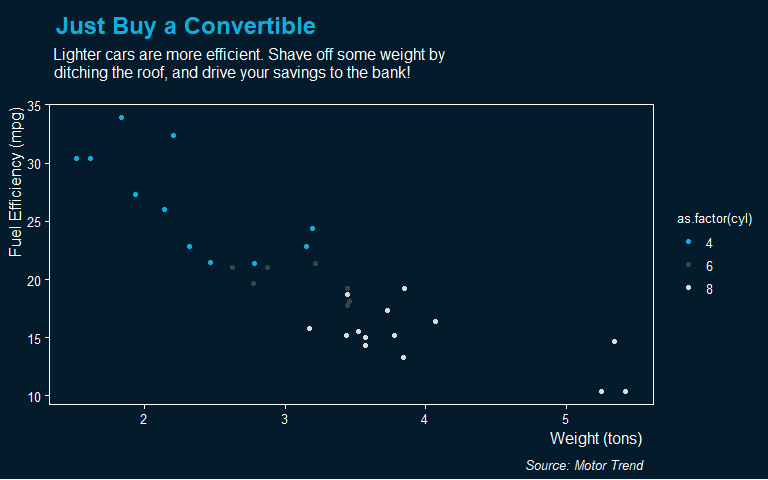
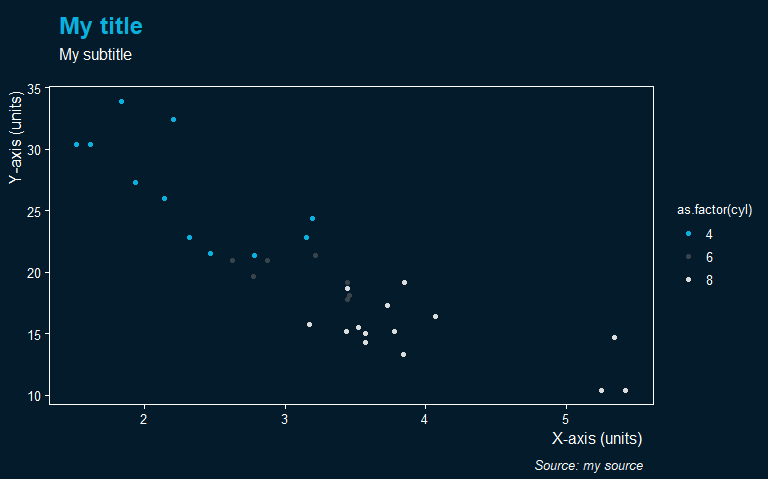
Add example

diff --git a/vignettes/intro-2-ggbluebadge.md b/vignettes/intro-2-ggbluebadge.md
@@ -1,68 +1,96 @@
 <!-- README.md is generated from README.Rmd. Please edit that file -->
-    library(ggplot2)
-    library(magick)
-    #> Linking to ImageMagick 6.9.9.14
-    #> Enabled features: cairo, freetype, fftw, ghostscript, lcms, pango, rsvg, webp
-    #> Disabled features: fontconfig, x11
-    library(grid)
-    library(ggbluebadge)
+``` r
+library(ggplot2)
+library(magick)
+#> Linking to ImageMagick 6.9.9.14
+#> Enabled features: cairo, freetype, fftw, ghostscript, lcms, pango, rsvg, webp
+#> Disabled features: fontconfig, x11
+library(grid)
+library(ggbluebadge)
 
-    ggplot(mtcars, aes(wt, mpg, color = as.factor(cyl) )) +
-        geom_point() +
-        scale_color_csiro(palette="main") +
-        labs(
-            x = "Weight (tons)",
-            y = "Fuel Efficiency (mpg)",
-            title = "Just Buy a Convertible",
-            subtitle = "Lighter cars are more efficient. Shave off some weight by\nditching the roof, and drive your savings to the bank!",
-            caption = "Source: Motor Trend"
-        ) +
-        theme_csiro_dark()
+ggplot(mtcars, aes(wt, mpg, color = as.factor(cyl) )) +
+    geom_point() +
+    scale_color_csiro(palette="main") +
+    labs(
+        x = "X-axis (units)",
+        y = "Y-axis (units)",
+        title = "My title",
+        subtitle = "My subtitle",
+        caption = "Source: my source"
+    ) +
+    theme_csiro()
+```
 
 ![](figures/V-unnamed-chunk-2-1.png)
 
+``` r
 
 
-
-    ggplot(mtcars, aes(wt, mpg, color = as.factor(cyl) )) +
-        geom_point() +
-        scale_color_csiro(palette="main") +
-        labs(
-            x = "Weight (tons)",
-            y = "Fuel Efficiency (mpg)",
-            title = "Just Buy a Convertible",
-            subtitle = "Lighter cars are more efficient. Shave off some weight by\nditching the roof, and drive your savings to the bank!",
-            caption = "Source: Motor Trend"
-        ) +
-      theme_floating_axes() +
-      add_floating_x(range(mtcars$wt)) + 
-      add_floating_y(range(mtcars$mpg))
+ggplot(mtcars, aes(wt, mpg, color = as.factor(cyl) )) +
+    geom_point() +
+    scale_color_csiro(palette="main") +
+    labs(
+        x = "X-axis (units)",
+        y = "Y-axis (units)",
+        title = "My title",
+        subtitle = "My subtitle",
+        caption = "Source: my source"
+    ) +
+    theme_csiro_dark()
+```
 
 ![](figures/V-unnamed-chunk-2-2.png)
 
+``` r
 
 
-    ggplot(iris, aes(Sepal.Width, Sepal.Length, color = Sepal.Length)) +
-      geom_point(size = 4, alpha = .6) +
-      scale_color_gradient2(low = csiro_cols("midday blue"), mid = csiro_cols("gold"), high = csiro_cols("mint"),midpoint=6) +
-      theme_csiro()
+
+ggplot(mtcars, aes(wt, mpg, color = as.factor(cyl) )) +
+    geom_point() +
+    scale_color_csiro(palette="main") +
+    labs(
+        x = "X-axis (units)",
+        y = "Y-axis (units)",
+        title = "My title",
+        subtitle = "My subtitle",
+        caption = "Source: my source"
+    ) +
+  theme_floating_axes() +
+  add_floating_x(range(mtcars$wt)) + 
+  add_floating_y(range(mtcars$mpg))
+```
 
 ![](figures/V-unnamed-chunk-2-3.png)
 
+``` r
+
+
+ggplot(iris, aes(Sepal.Width, Sepal.Length, color = Sepal.Length)) +
+  geom_point(size = 4, alpha = .6) +
+  scale_color_gradient2(low = csiro_cols("midday blue"),
+                        mid = csiro_cols("gold"),
+                        high = csiro_cols("mint"),midpoint=6) +
+  theme_pub()
+```
+
+![](figures/V-unnamed-chunk-2-4.png)
+
 Now, let’s add the CSIRO logo to the figure.
 
+``` r
 
-    p <- ggplot(mtcars, aes(wt, mpg, color = as.factor(cyl) )) +
-        geom_point() +
-        scale_color_csiro(palette="main") +
-        labs(
-            x = "Weight (tons)",
-            y = "Fuel Efficiency (mpg)",
-            title = "Just Buy a Convertible",
-            subtitle = "Lighter cars are more efficient. Shave off some weight by\nditching the roof, and drive your savings to the bank!",
-            caption = "Source: Motor Trend"
-        ) +
-        theme_csiro()
-    add_logo(p, logo='csiro')
+p <- ggplot(mtcars, aes(wt, mpg, color = as.factor(cyl) )) +
+    geom_point() +
+    scale_color_csiro(palette="main") +
+    labs(
+        x = "X-axis (units)",
+        y = "Y-axis (units)",
+        title = "My title",
+        subtitle = "My subtitle",
+        caption = "Source: my source"
+    ) +
+    theme_csiro()
+add_logo(p, logo='csiro')
+```
 
 ![](figures/V-unnamed-chunk-3-1.png)
